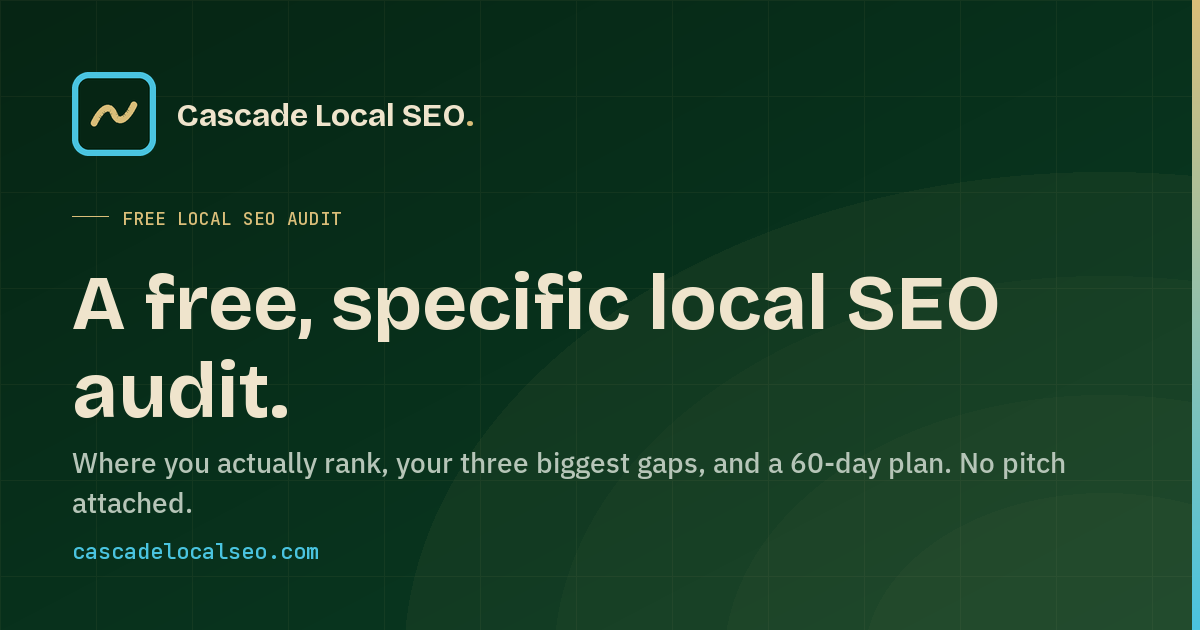
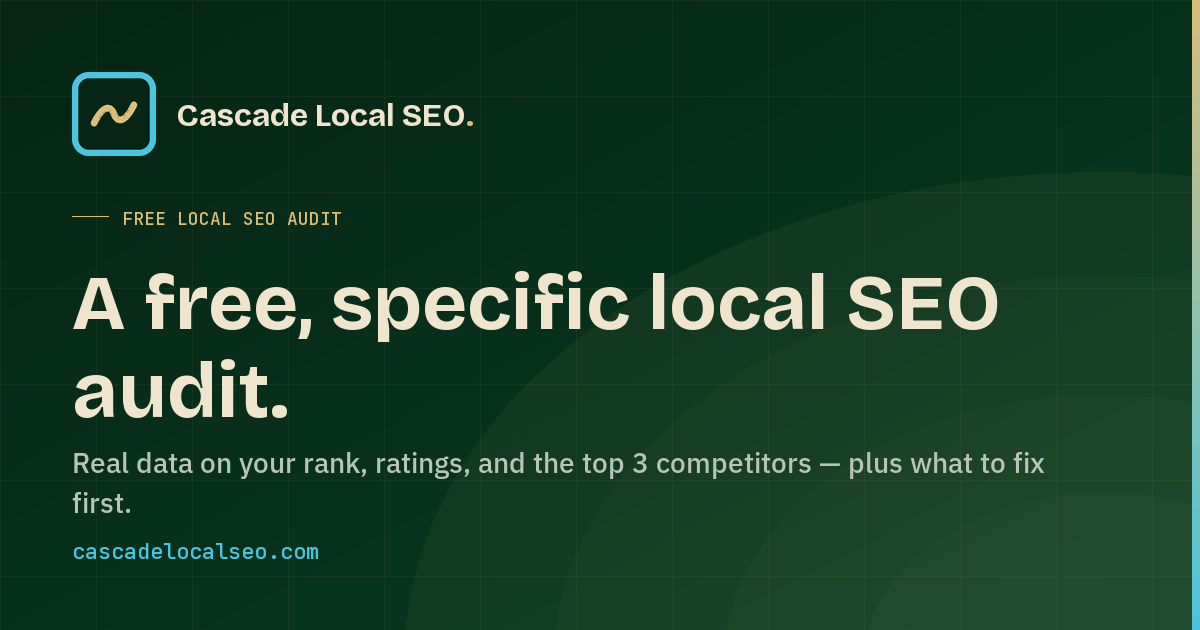
og-default: honest subline — drop "60-day plan / no pitch attached"
The old subline over-promised vs what the auto-generated audit actually
delivers. The audit page provides "three moves I'd make in the next
60 days" (3 recommendations) — that's a starting point, not a full
60-day plan. And the page does contain pitches: tier teaser ($1k/mo
retainer), Foundations $500 schema CTA, "Get the full breakdown" CTA.

New copy reframes as an honest starting point:
  "Real data on your rank, ratings, and the top 3 competitors —
   plus what to fix first."

This is what the auto audit demonstrably ships. Vertical OG cards
(og-med-spas.png etc.) use vertical-specific og_subline copy and were
not touched.

Changed region(s): [[0.0617, 0.7238, 0.8942, 0.7841], [0.0617, 0.7841, 0.1542, 0.8143]]

diff --git a/scripts/generate_og_image.py b/scripts/generate_og_image.py
@@ -159,11 +159,13 @@ def make_card(filename, eyebrow, headline, subline):
 
 
 def main():
+    # 2026-05-28: subline rewritten honest. The old "60-day plan / no pitch attached" line
+    # over-promised — the auto audit gives 3 moves, and the page does have pricing teasers.
     make_card(
         "og-default.png",
         eyebrow="Free local SEO audit",
         headline="A free, specific local SEO audit.",
-        subline="Where you actually rank, your three biggest gaps, and a 60-day plan. No pitch attached.",
+        subline="Real data on your rank, ratings, and the top 3 competitors — plus what to fix first.",
     )
     # One card per vertical, driven by the same source of truth as the pages.
     for slug, v in VERTICALS.items():